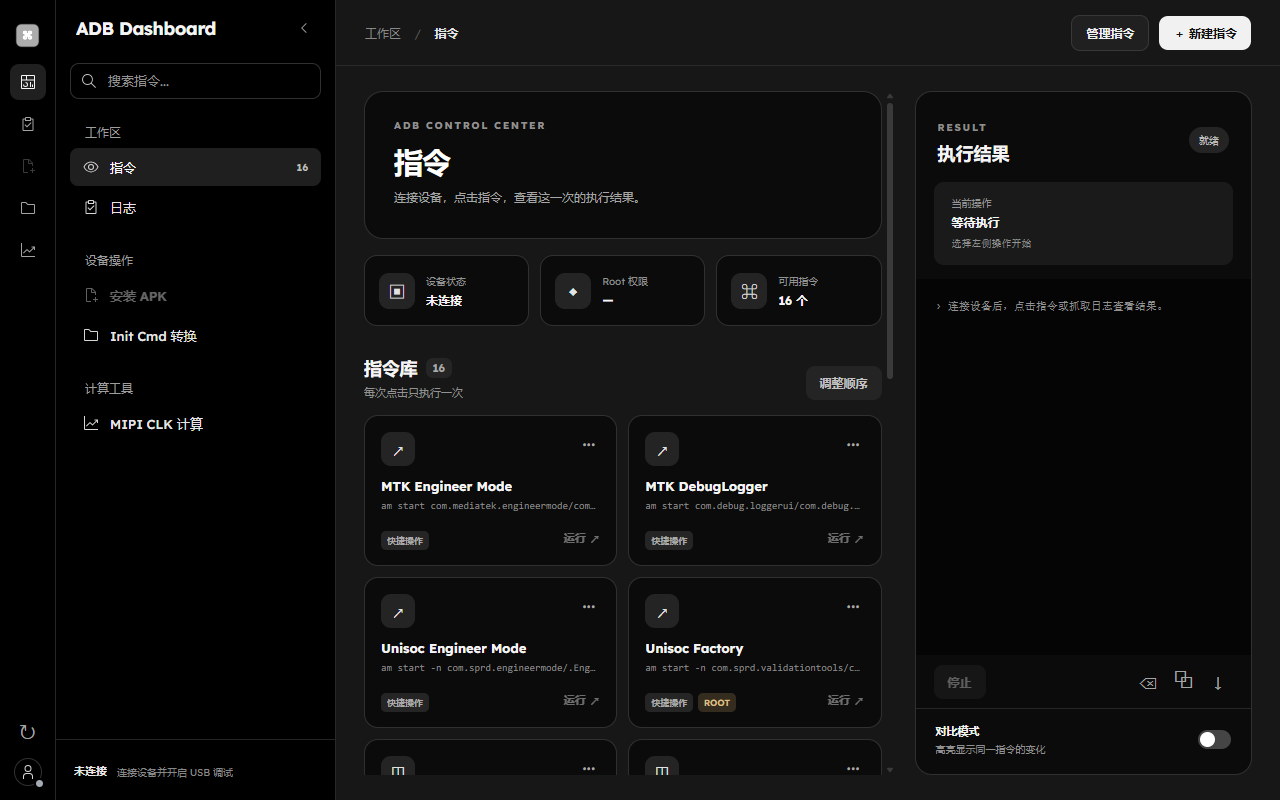
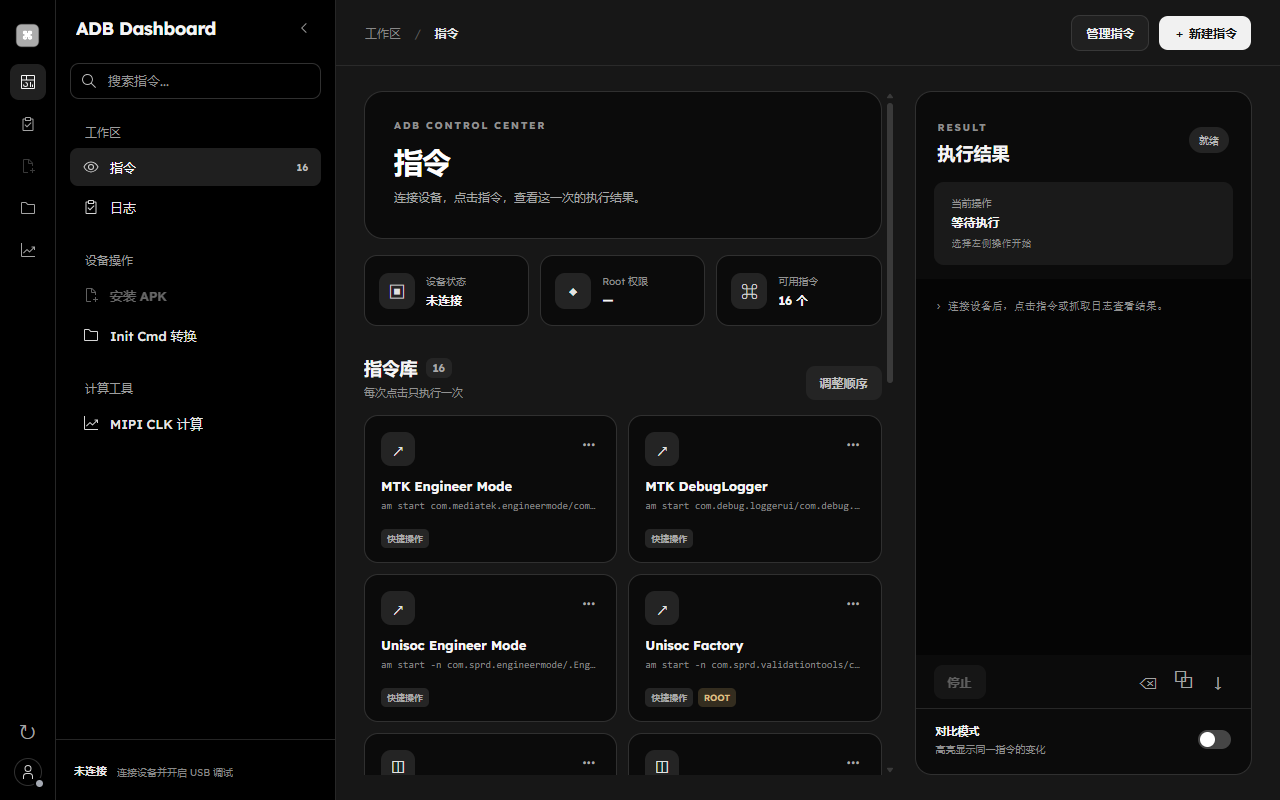
Run commands from cards and root connected devices

diff --git a/electron/renderer/styles.css b/electron/renderer/styles.css
@@ -1,4 +1,4 @@
-:root{font-family:Inter,-apple-system,BlinkMacSystemFont,"Segoe UI","PingFang SC","Microsoft YaHei",sans-serif;color:#1d1d1f;background:#f5f5f7;font-synthesis:none}*{box-sizing:border-box}body{margin:0;min-width:940px}button,input,textarea,select{font:inherit}button{cursor:pointer}button:disabled{cursor:not-allowed;opacity:.45}.app-shell{display:flex;height:100vh;min-height:640px}.sidebar{width:230px;flex:none;background:linear-gradient(160deg,#f8f9fc,#eef1f6);border-right:1px solid #e4e7ed;display:flex;flex-direction:column;padding:26px 14px 18px}.brand{display:flex;gap:11px;align-items:center;padding:2px 10px 38px}.brand-mark{width:36px;height:36px;display:grid;place-items:center;border-radius:11px;background:#1677f9;color:#fff;font-size:23px;box-shadow:0 7px 16px #2a78ec30}.brand strong{display:block;font-size:14px;letter-spacing:-.25px}.brand small{display:block;color:#8a93a2;font-size:11px;margin-top:3px}.sidebar-label{padding:0 14px;margin:0 0 9px;font-size:10px;font-weight:700;letter-spacing:1.6px;color:#a1a9b7}.tools-label{margin-top:30px}.nav-item{width:100%;height:40px;border:0;background:transparent;border-radius:10px;text-align:left;padding:0 12px;color:#626c7b;font-size:13px;font-weight:600;display:flex;align-items:center;gap:11px;margin-bottom:3px}.nav-item:hover{background:#e8edf5}.nav-item.active{background:#dbeaff;color:#0870ee}.nav-icon{width:18px;text-align:center;font-size:18px;line-height:1;font-weight:400}.nav-count{margin-left:auto;font-size:11px;font-weight:700;color:#8c97a6}.active .nav-count{color:#3386e7}.sidebar-bottom{margin-top:auto;padding:13px 10px 0;border-top:1px solid #dfe4ec;display:flex;align-items:center;gap:5px}.device-mini{display:flex;gap:10px;align-items:center;min-width:0;flex:1}.device-mini strong,.device-mini small{display:block;overflow:hidden;text-overflow:ellipsis;white-space:nowrap}.device-mini strong{font-size:12px}.device-mini small{font-size:10px;color:#8b95a3;margin-top:3px}.status-dot{width:9px;height:9px;border-radius:50%;background:#a5aab3;box-shadow:0 0 0 4px #a5aab323;flex:none}.status-dot.connected{background:#34bf78;box-shadow:0 0 0 4px #34bf7824}.status-dot.error{background:#ee776d;box-shadow:0 0 0 4px #ee776d24}.main{flex:1;min-width:0;display:flex;flex-direction:column}.topbar{height:66px;flex:none;background:#ffffffd9;border-bottom:1px solid #e9ebef;display:flex;align-items:center;justify-content:space-between;padding:0 29px}.breadcrumbs{font-size:12px;color:#9aa2ad}.breadcrumbs span{padding:0 10px;color:#cbd0d6}.breadcrumbs strong{color:#56606d;font-weight:600}.top-actions{display:flex;align-items:center;gap:10px}.button{border:0;border-radius:9px;padding:9px 14px;font-size:12px;font-weight:650;white-space:nowrap;transition:.18s ease}.button:active{transform:scale(.97)}.button.primary{background:#1677f9;color:white;box-shadow:0 4px 12px #1677f92d}.button.primary:hover{background:#0067e7}.button.secondary{background:white;color:#3a4654;border:1px solid #dfe3e9}.button.secondary:hover{background:#f8faff}.button.subtle{background:#f0f3f7;color:#627080}.button.subtle:hover{background:#e5ebf3}.button.danger{background:#fff0ee;color:#d65047}.button.active{background:#dceaff;color:#0c6fe4}.icon-button{width:30px;height:30px;border:0;border-radius:8px;background:transparent;color:#7c8897;font-size:19px;display:inline-grid;place-items:center}.icon-button:hover{background:#edf1f6;color:#2678e8}.workspace{display:grid;grid-template-columns:minmax(450px,1fr) minmax(330px,38%);gap:20px;padding:25px 28px;min-height:0;flex:1}.command-section{min-width:0;overflow-y:auto;padding-right:3px}.hero{height:168px;border-radius:19px;position:relative;overflow:hidden;background:linear-gradient(115deg,#1c72f1 0%,#468ef6 56%,#78b2ff 100%);color:white;padding:31px 32px;box-shadow:0 13px 28px #4288f626}.eyebrow{font-size:10px;font-weight:750;letter-spacing:1.7px;color:#8fa0b4}.hero .eyebrow{color:#cce1ff}.hero h1{font-size:29px;letter-spacing:-.9px;margin:12px 0 8px}.hero p{font-size:12px;margin:0;color:#d7e8ff}.hero-graphic{position:absolute;width:240px;height:240px;right:-10px;top:-37px;display:grid;place-items:center}.hero-ring{position:absolute;border:1px solid #ffffff30;border-radius:50%}.ring-a{width:182px;height:182px}.ring-b{width:116px;height:116px;border-width:20px;border-color:#ffffff14}.hero-core{display:grid;place-items:center;width:76px;height:76px;border-radius:23px;transform:rotate(-12deg);background:#ffffff2f;color:white;font-size:45px;box-shadow:0 18px 36px #0c5aca44;backdrop-filter:blur(7px)}.overview{display:grid;grid-template-columns:repeat(3,1fr);gap:11px;margin:16px 0 30px}.overview-item{display:flex;align-items:center;gap:11px;background:white;border:1px solid #edf0f3;border-radius:13px;min-height:71px;padding:13px 14px;box-shadow:0 3px 10px #34446a08;min-width:0}.overview-icon{width:36px;height:36px;flex:none;border-radius:10px;display:grid;place-items:center;font-size:17px}.overview-icon.blue{background:#e7f1ff;color:#3989f8}.overview-icon.green{background:#e9f8ef;color:#39b975}.overview-icon.purple{background:#f0ebff;color:#916be9}.overview-item small,.overview-item strong{display:block;white-space:nowrap;overflow:hidden;text-overflow:ellipsis}.overview-item small{color:#9aa5b2;font-size:10px}.overview-item strong{font-size:12px;margin-top:4px}.section-heading{display:flex;align-items:flex-end;justify-content:space-between;gap:10px;margin-bottom:15px}.section-heading h2{font-size:18px;letter-spacing:-.3px;margin:0 0 5px}.heading-count{font-size:11px;background:#e9edf4;color:#8793a3;padding:3px 7px;border-radius:7px;vertical-align:3px;margin-left:3px}.section-heading p{font-size:11px;color:#9ba5b2;margin:0}.section-tools{display:flex;gap:8px;align-items:center}.search-box{height:33px;display:flex;align-items:center;gap:6px;border:1px solid #e2e6ec;background:white;border-radius:9px;padding:0 9px;color:#9da6b0}.search-box span{font-size:20px;line-height:1}.search-box input{border:0;outline:0;width:132px;font-size:11px;color:#313d4b;background:transparent}.search-box input::placeholder{color:#aeb7c1}.command-grid{display:grid;grid-template-columns:repeat(2,minmax(0,1fr));gap:11px;padding-bottom:24px}.command-card{background:#fff;border:1px solid #e9edf2;border-radius:14px;min-height:139px;padding:16px;box-shadow:0 4px 14px #33445f08;transition:.18s ease;display:flex;flex-direction:column;min-width:0}.command-card:hover{transform:translateY(-2px);box-shadow:0 10px 23px #34446417;border-color:#dbe7f9}.command-card.running{border-color:#88baff;box-shadow:0 0 0 3px #3a8cff15}.command-card.dragging{opacity:.45}.card-top{display:flex;align-items:flex-start;justify-content:space-between;gap:8px}.card-icon{width:34px;height:34px;border-radius:10px;display:grid;place-items:center;font-size:17px}.card-icon.read{background:#eaf2ff;color:#3886f4}.card-icon.action{background:#eeeaff;color:#8c69e7}.card-menu{border:0;background:transparent;color:#a4adba;font-size:19px;line-height:1;padding:3px 5px;border-radius:6px}.card-menu:hover{background:#eef2f8;color:#4d82d2}.card-main{flex:1;min-width:0}.card-main h3{font-size:13px;letter-spacing:-.1px;margin:12px 0 5px;white-space:nowrap;overflow:hidden;text-overflow:ellipsis}.card-main code{display:block;color:#a1aab7;font:10px/1.4 Consolas,"SFMono-Regular",monospace;white-space:nowrap;overflow:hidden;text-overflow:ellipsis}.card-footer{display:flex;align-items:center;justify-content:space-between;margin-top:13px;gap:6px}.tag{font-size:9px;font-weight:650;border-radius:5px;padding:4px 6px;background:#f2f4f7;color:#8c96a3;white-space:nowrap}.tag.root{color:#cb8d2a;background:#fff5e3}.run-button{border:0;background:transparent;color:#2579ed;font-size:11px;font-weight:700;padding:4px 0}.run-button:hover{text-decoration:underline}.empty-state{text-align:center;padding:60px 20px;color:#a3adba}.empty-state div{font-size:42px}.empty-state strong{color:#586474;font-size:14px}.empty-state p{font-size:12px}.output-section{background:white;border:1px solid #e9edf2;border-radius:17px;box-shadow:0 5px 20px #3042600c;display:flex;flex-direction:column;min-height:0;overflow:hidden}.output-header{display:flex;align-items:center;justify-content:space-between;padding:23px 22px 17px}.output-header h2{font-size:18px;margin:6px 0 0}.output-pill{font-size:10px;color:#5b8dcb;background:#eaf3ff;padding:6px 10px;border-radius:15px}.output-pill.running{color:#dc8652;background:#fff1e7}.output-pill.error{color:#df6359;background:#fff0ef}.output-command{padding:14px 18px;margin:0 18px 14px;background:#f5f7fa;border-radius:10px;min-width:0}.output-command small{font-size:10px;color:#9ca6b3;display:block}.output-command strong{font-size:12px;display:block;margin:4px 0 7px}.output-command code{font:10px/1.4 Consolas,"SFMono-Regular",monospace;color:#818c9a;display:block;white-space:nowrap;overflow:hidden;text-overflow:ellipsis}.output-text{flex:1;min-height:100px;overflow:auto;margin:0;padding:19px 20px;background:#121b2b;color:#d2e0ef;font:11px/1.65 Consolas,"SFMono-Regular",monospace;white-space:pre-wrap;word-break:break-word}.placeholder-output{color:#718096}.output-text .added{color:#92dda8;background:#23473580}.output-text .removed{color:#f8a5aa;background:#5a313980}.compare-note{padding:8px 18px;font-size:10px;color:#8378bb;background:#f3f0ff}.output-footer{height:54px;flex:none;display:flex;align-items:center;justify-content:space-between;padding:0 18px;border-bottom:1px solid #f0f1f4}.output-footer>div{display:flex;gap:5px}.compare-control{padding:14px 20px 18px}.switch-row{display:flex;align-items:center;justify-content:space-between;cursor:pointer}.switch-row strong,.switch-row small{display:block}.switch-row strong{font-size:11px}.switch-row small{color:#a0a9b5;font-size:10px;margin-top:4px}.switch-row input{position:absolute;opacity:0}.switch{position:relative;width:33px;height:19px;background:#d8dfe7;border-radius:20px;transition:.2s}.switch:before{content:"";position:absolute;width:15px;height:15px;left:2px;top:2px;background:white;border-radius:50%;box-shadow:0 1px 3px #0002;transition:.2s}.switch-row input:checked+.switch{background:#2881ed}.switch-row input:checked+.switch:before{transform:translateX(14px)}.modal{border:1px solid #e5e9ef;border-radius:16px;padding:0;width:min(500px,calc(100vw - 40px));box-shadow:0 25px 80px #16264338;color:#1d1d1f;background:#fff}.modal::backdrop{background:#16243b60;backdrop-filter:blur(4px)}.modal-header{padding:25px 26px 18px;display:flex;align-items:flex-start;justify-content:space-between;border-bottom:1px solid #edf0f3}.modal-header h2{margin:6px 0 0;font-size:20px}.close-button{border:0;background:#f1f3f6;color:#8c95a1;border-radius:8px;width:26px;height:26px;font-size:18px}.modal-body{padding:20px 26px;display:grid;gap:15px}.modal-body label{display:grid;gap:7px;font-size:11px;font-weight:700;color:#5e6a78}.modal-body input:not([type=checkbox]),.modal-body textarea,.modal-body select{border:1px solid #dfe4eb;border-radius:8px;padding:10px 11px;outline:none;color:#273444;background:#fbfcfe;font-size:12px;resize:vertical}.modal-body input:focus,.modal-body textarea:focus,.modal-body select:focus{border-color:#6da7f2;box-shadow:0 0 0 3px #4e9aff1c}.form-row{display:grid;grid-template-columns:1fr 1fr;gap:13px;align-items:end}.modal-body .check-label{display:flex;align-items:center;gap:7px;min-height:36px}.check-label input{accent-color:#1677f9}.form-error{font-size:11px;color:#da4c43;margin:0}.modal-footer{display:flex;gap:8px;align-items:center;padding:14px 26px 24px}.spacer{flex:1}.toast{position:fixed;bottom:28px;left:50%;transform:translate(-50%,12px);background:#1c2d43;color:white;padding:11px 16px;border-radius:10px;font-size:12px;box-shadow:0 9px 25px #0003;opacity:0;pointer-events:none;transition:.2s}.toast.show{opacity:1;transform:translate(-50%,0)}@media(max-width:1150px){.sidebar{width:205px}.workspace{grid-template-columns:minmax(380px,1fr) minmax(310px,39%);gap:14px;padding:18px}.hero-graphic{right:-75px}.overview-item{padding:11px 8px;gap:6px}.overview-icon{width:28px;height:28px}.section-heading{align-items:flex-start}.section-tools{gap:4px}.search-box input{width:86px}.command-grid{gap:8px}.command-card{padding:12px}.topbar{padding:0 18px}}
+:root{font-family:Inter,-apple-system,BlinkMacSystemFont,"Segoe UI","PingFang SC","Microsoft YaHei",sans-serif;color:#1d1d1f;background:#f5f5f7;font-synthesis:none}*{box-sizing:border-box}body{margin:0;min-width:940px}button,input,textarea,select{font:inherit}button{cursor:pointer}button:disabled{cursor:not-allowed;opacity:.45}.app-shell{display:flex;height:100vh;min-height:640px}.sidebar{width:230px;flex:none;background:linear-gradient(160deg,#f8f9fc,#eef1f6);border-right:1px solid #e4e7ed;display:flex;flex-direction:column;padding:26px 14px 18px}.brand{display:flex;gap:11px;align-items:center;padding:2px 10px 38px}.brand-mark{width:36px;height:36px;display:grid;place-items:center;border-radius:11px;background:#1677f9;color:#fff;font-size:23px;box-shadow:0 7px 16px #2a78ec30}.brand strong{display:block;font-size:14px;letter-spacing:-.25px}.brand small{display:block;color:#8a93a2;font-size:11px;margin-top:3px}.sidebar-label{padding:0 14px;margin:0 0 9px;font-size:10px;font-weight:700;letter-spacing:1.6px;color:#a1a9b7}.tools-label{margin-top:30px}.nav-item{width:100%;height:40px;border:0;background:transparent;border-radius:10px;text-align:left;padding:0 12px;color:#626c7b;font-size:13px;font-weight:600;display:flex;align-items:center;gap:11px;margin-bottom:3px}.nav-item:hover{background:#e8edf5}.nav-item.active{background:#dbeaff;color:#0870ee}.nav-icon{width:18px;text-align:center;font-size:18px;line-height:1;font-weight:400}.nav-count{margin-left:auto;font-size:11px;font-weight:700;color:#8c97a6}.active .nav-count{color:#3386e7}.sidebar-bottom{margin-top:auto;padding:13px 10px 0;border-top:1px solid #dfe4ec;display:flex;align-items:center;gap:5px}.device-mini{display:flex;gap:10px;align-items:center;min-width:0;flex:1}.device-mini strong,.device-mini small{display:block;overflow:hidden;text-overflow:ellipsis;white-space:nowrap}.device-mini strong{font-size:12px}.device-mini small{font-size:10px;color:#8b95a3;margin-top:3px}.status-dot{width:9px;height:9px;border-radius:50%;background:#a5aab3;box-shadow:0 0 0 4px #a5aab323;flex:none}.status-dot.connected{background:#34bf78;box-shadow:0 0 0 4px #34bf7824}.status-dot.error{background:#ee776d;box-shadow:0 0 0 4px #ee776d24}.main{flex:1;min-width:0;display:flex;flex-direction:column}.topbar{height:66px;flex:none;background:#ffffffd9;border-bottom:1px solid #e9ebef;display:flex;align-items:center;justify-content:space-between;padding:0 29px}.breadcrumbs{font-size:12px;color:#9aa2ad}.breadcrumbs span{padding:0 10px;color:#cbd0d6}.breadcrumbs strong{color:#56606d;font-weight:600}.top-actions{display:flex;align-items:center;gap:10px}.button{border:0;border-radius:9px;padding:9px 14px;font-size:12px;font-weight:650;white-space:nowrap;transition:.18s ease}.button:active{transform:scale(.97)}.button.primary{background:#1677f9;color:white;box-shadow:0 4px 12px #1677f92d}.button.primary:hover{background:#0067e7}.button.secondary{background:white;color:#3a4654;border:1px solid #dfe3e9}.button.secondary:hover{background:#f8faff}.button.subtle{background:#f0f3f7;color:#627080}.button.subtle:hover{background:#e5ebf3}.button.danger{background:#fff0ee;color:#d65047}.button.active{background:#dceaff;color:#0c6fe4}.icon-button{width:30px;height:30px;border:0;border-radius:8px;background:transparent;color:#7c8897;font-size:19px;display:inline-grid;place-items:center}.icon-button:hover{background:#edf1f6;color:#2678e8}.workspace{display:grid;grid-template-columns:minmax(450px,1fr) minmax(330px,38%);gap:20px;padding:25px 28px;min-height:0;flex:1}.command-section{min-width:0;overflow-y:auto;padding-right:3px}.hero{height:168px;border-radius:19px;position:relative;overflow:hidden;background:linear-gradient(115deg,#1c72f1 0%,#468ef6 56%,#78b2ff 100%);color:white;padding:31px 32px;box-shadow:0 13px 28px #4288f626}.eyebrow{font-size:10px;font-weight:750;letter-spacing:1.7px;color:#8fa0b4}.hero .eyebrow{color:#cce1ff}.hero h1{font-size:29px;letter-spacing:-.9px;margin:12px 0 8px}.hero p{font-size:12px;margin:0;color:#d7e8ff}.hero-graphic{position:absolute;width:240px;height:240px;right:-10px;top:-37px;display:grid;place-items:center}.hero-ring{position:absolute;border:1px solid #ffffff30;border-radius:50%}.ring-a{width:182px;height:182px}.ring-b{width:116px;height:116px;border-width:20px;border-color:#ffffff14}.hero-core{display:grid;place-items:center;width:76px;height:76px;border-radius:23px;transform:rotate(-12deg);background:#ffffff2f;color:white;font-size:45px;box-shadow:0 18px 36px #0c5aca44;backdrop-filter:blur(7px)}.overview{display:grid;grid-template-columns:repeat(3,1fr);gap:11px;margin:16px 0 30px}.overview-item{display:flex;align-items:center;gap:11px;background:white;border:1px solid #edf0f3;border-radius:13px;min-height:71px;padding:13px 14px;box-shadow:0 3px 10px #34446a08;min-width:0}.overview-icon{width:36px;height:36px;flex:none;border-radius:10px;display:grid;place-items:center;font-size:17px}.overview-icon.blue{background:#e7f1ff;color:#3989f8}.overview-icon.green{background:#e9f8ef;color:#39b975}.overview-icon.purple{background:#f0ebff;color:#916be9}.overview-item small,.overview-item strong{display:block;white-space:nowrap;overflow:hidden;text-overflow:ellipsis}.overview-item small{color:#9aa5b2;font-size:10px}.overview-item strong{font-size:12px;margin-top:4px}.section-heading{display:flex;align-items:flex-end;justify-content:space-between;gap:10px;margin-bottom:15px}.section-heading h2{font-size:18px;letter-spacing:-.3px;margin:0 0 5px}.heading-count{font-size:11px;background:#e9edf4;color:#8793a3;padding:3px 7px;border-radius:7px;vertical-align:3px;margin-left:3px}.section-heading p{font-size:11px;color:#9ba5b2;margin:0}.section-tools{display:flex;gap:8px;align-items:center}.search-box{height:33px;display:flex;align-items:center;gap:6px;border:1px solid #e2e6ec;background:white;border-radius:9px;padding:0 9px;color:#9da6b0}.search-box span{font-size:20px;line-height:1}.search-box input{border:0;outline:0;width:132px;font-size:11px;color:#313d4b;background:transparent}.search-box input::placeholder{color:#aeb7c1}.command-grid{display:grid;grid-template-columns:repeat(2,minmax(0,1fr));gap:11px;padding-bottom:24px}.command-card{background:#fff;border:1px solid #e9edf2;border-radius:14px;min-height:139px;padding:16px;box-shadow:0 4px 14px #33445f08;transition:.18s ease;display:flex;flex-direction:column;min-width:0}.command-card:hover{transform:translateY(-2px);box-shadow:0 10px 23px #34446417;border-color:#dbe7f9}.command-card.running{border-color:#88baff;box-shadow:0 0 0 3px #3a8cff15}.command-card.dragging{opacity:.45}.card-top{display:flex;align-items:flex-start;justify-content:space-between;gap:8px}.card-icon{width:34px;height:34px;border-radius:10px;display:grid;place-items:center;font-size:17px}.card-icon.read{background:#eaf2ff;color:#3886f4}.card-icon.action{background:#eeeaff;color:#8c69e7}.card-menu{border:0;background:transparent;color:#a4adba;font-size:19px;line-height:1;padding:3px 5px;border-radius:6px}.card-menu:hover{background:#eef2f8;color:#4d82d2}.card-main{flex:1;min-width:0}.card-main h3{font-size:13px;letter-spacing:-.1px;margin:12px 0 5px;white-space:nowrap;overflow:hidden;text-overflow:ellipsis}.card-main code{display:block;color:#a1aab7;font:10px/1.4 Consolas,"SFMono-Regular",monospace;white-space:nowrap;overflow:hidden;text-overflow:ellipsis}.card-footer{display:flex;align-items:center;justify-content:space-between;margin-top:13px;gap:6px}.tag{font-size:9px;font-weight:650;border-radius:5px;padding:4px 6px;background:#f2f4f7;color:#8c96a3;white-space:nowrap}.tag.root{color:#cb8d2a;background:#fff5e3}.empty-state{text-align:center;padding:60px 20px;color:#a3adba}.empty-state div{font-size:42px}.empty-state strong{color:#586474;font-size:14px}.empty-state p{font-size:12px}.output-section{background:white;border:1px solid #e9edf2;border-radius:17px;box-shadow:0 5px 20px #3042600c;display:flex;flex-direction:column;min-height:0;overflow:hidden}.output-header{display:flex;align-items:center;justify-content:space-between;padding:23px 22px 17px}.output-header h2{font-size:18px;margin:6px 0 0}.output-pill{font-size:10px;color:#5b8dcb;background:#eaf3ff;padding:6px 10px;border-radius:15px}.output-pill.running{color:#dc8652;background:#fff1e7}.output-pill.error{color:#df6359;background:#fff0ef}.output-command{padding:14px 18px;margin:0 18px 14px;background:#f5f7fa;border-radius:10px;min-width:0}.output-command small{font-size:10px;color:#9ca6b3;display:block}.output-command strong{font-size:12px;display:block;margin:4px 0 7px}.output-command code{font:10px/1.4 Consolas,"SFMono-Regular",monospace;color:#818c9a;display:block;white-space:nowrap;overflow:hidden;text-overflow:ellipsis}.output-text{flex:1;min-height:100px;overflow:auto;margin:0;padding:19px 20px;background:#121b2b;color:#d2e0ef;font:11px/1.65 Consolas,"SFMono-Regular",monospace;white-space:pre-wrap;word-break:break-word}.placeholder-output{color:#718096}.output-text .added{color:#92dda8;background:#23473580}.output-text .removed{color:#f8a5aa;background:#5a313980}.compare-note{padding:8px 18px;font-size:10px;color:#8378bb;background:#f3f0ff}.output-footer{height:54px;flex:none;display:flex;align-items:center;justify-content:space-between;padding:0 18px;border-bottom:1px solid #f0f1f4}.output-footer>div{display:flex;gap:5px}.compare-control{padding:14px 20px 18px}.switch-row{display:flex;align-items:center;justify-content:space-between;cursor:pointer}.switch-row strong,.switch-row small{display:block}.switch-row strong{font-size:11px}.switch-row small{color:#a0a9b5;font-size:10px;margin-top:4px}.switch-row input{position:absolute;opacity:0}.switch{position:relative;width:33px;height:19px;background:#d8dfe7;border-radius:20px;transition:.2s}.switch:before{content:"";position:absolute;width:15px;height:15px;left:2px;top:2px;background:white;border-radius:50%;box-shadow:0 1px 3px #0002;transition:.2s}.switch-row input:checked+.switch{background:#2881ed}.switch-row input:checked+.switch:before{transform:translateX(14px)}.modal{border:1px solid #e5e9ef;border-radius:16px;padding:0;width:min(500px,calc(100vw - 40px));box-shadow:0 25px 80px #16264338;color:#1d1d1f;background:#fff}.modal::backdrop{background:#16243b60;backdrop-filter:blur(4px)}.modal-header{padding:25px 26px 18px;display:flex;align-items:flex-start;justify-content:space-between;border-bottom:1px solid #edf0f3}.modal-header h2{margin:6px 0 0;font-size:20px}.close-button{border:0;background:#f1f3f6;color:#8c95a1;border-radius:8px;width:26px;height:26px;font-size:18px}.modal-body{padding:20px 26px;display:grid;gap:15px}.modal-body label{display:grid;gap:7px;font-size:11px;font-weight:700;color:#5e6a78}.modal-body input:not([type=checkbox]),.modal-body textarea,.modal-body select{border:1px solid #dfe4eb;border-radius:8px;padding:10px 11px;outline:none;color:#273444;background:#fbfcfe;font-size:12px;resize:vertical}.modal-body input:focus,.modal-body textarea:focus,.modal-body select:focus{border-color:#6da7f2;box-shadow:0 0 0 3px #4e9aff1c}.form-row{display:grid;grid-template-columns:1fr 1fr;gap:13px;align-items:end}.modal-body .check-label{display:flex;align-items:center;gap:7px;min-height:36px}.check-label input{accent-color:#1677f9}.form-error{font-size:11px;color:#da4c43;margin:0}.modal-footer{display:flex;gap:8px;align-items:center;padding:14px 26px 24px}.spacer{flex:1}.toast{position:fixed;bottom:28px;left:50%;transform:translate(-50%,12px);background:#1c2d43;color:white;padding:11px 16px;border-radius:10px;font-size:12px;box-shadow:0 9px 25px #0003;opacity:0;pointer-events:none;transition:.2s}.toast.show{opacity:1;transform:translate(-50%,0)}@media(max-width:1150px){.sidebar{width:205px}.workspace{grid-template-columns:minmax(380px,1fr) minmax(310px,39%);gap:14px;padding:18px}.hero-graphic{right:-75px}.overview-item{padding:11px 8px;gap:6px}.overview-icon{width:28px;height:28px}.section-heading{align-items:flex-start}.section-tools{gap:4px}.search-box input{width:86px}.command-grid{gap:8px}.command-card{padding:12px}.topbar{padding:0 18px}}
 /* One-shot log capture workspace */
 [hidden]{display:none!important}
 .log-hero{background:linear-gradient(115deg,#566bdf,#8293eb);height:132px;padding:23px 30px}

diff --git a/electron/renderer/app.js b/electron/renderer/app.js
@@ -55,10 +55,10 @@ function renderCards() {
     card.draggable = reorder;
     card.dataset.id = item.id;
     const icon = { read: '◫', action: '↗' }[item.category];
-    card.innerHTML = `<div class="card-top"><span class="card-icon ${item.category}">${icon}</span><button class="card-menu" title="编辑指令" aria-label="编辑指令">···</button></div><div class="card-main"><h3></h3><code></code></div><div class="card-footer"><div class="card-tags"></div><div class="card-actions"></div></div>`;
+    card.innerHTML = `<div class="card-top"><span class="card-icon ${item.category}">${icon}</span><button class="card-menu" title="编辑指令" aria-label="编辑指令">···</button></div><div class="card-main"><h3></h3><code></code></div><div class="card-footer"><div class="card-tags"></div></div>`;
     card.querySelector('h3').textContent = item.label;
     card.querySelector('code').textContent = item.shell_command;
-    card.querySelector('.card-menu').addEventListener('click', () => openCommandDialog(item));
+    card.querySelector('.card-menu').addEventListener('click', (event) => { event.stopPropagation(); openCommandDialog(item); });
     const tags = card.querySelector('.card-tags');
     const type = document.createElement('span');
     type.className = 'tag';
@@ -70,13 +70,18 @@ function renderCards() {
       root.textContent = 'ROOT';
       tags.append(' ', root);
     }
-    const actions = card.querySelector('.card-actions');
-    const run = document.createElement('button');
-    run.className = 'run-button';
-    run.textContent = activeId === item.id && running ? '运行中…' : '运行 ↗';
-    run.disabled = device.state !== 'connected' || reorder;
-    run.addEventListener('click', () => runCommand(item));
-    actions.append(run);
+    const clickable = device.state === 'connected' && !reorder;
+    card.classList.toggle('clickable', clickable);
+    card.tabIndex = clickable ? 0 : -1;
+    card.setAttribute('role', 'button');
+    card.setAttribute('aria-label', `执行指令：${item.label}`);
+    card.setAttribute('aria-disabled', String(!clickable));
+    card.addEventListener('click', () => { if (clickable) runCommand(item); });
+    card.addEventListener('keydown', (event) => {
+      if (event.target !== card || !clickable || !['Enter', ' '].includes(event.key)) return;
+      event.preventDefault();
+      runCommand(item);
+    });
     card.addEventListener('dragstart', (event) => { if (!reorder) return; event.dataTransfer.setData('text/plain', item.id); card.classList.add('dragging'); });
     card.addEventListener('dragend', () => card.classList.remove('dragging'));
     card.addEventListener('dragover', (event) => { if (reorder) event.preventDefault(); });

diff --git a/electron/tests/visual-smoke.js b/electron/tests/visual-smoke.js
@@ -11,6 +11,33 @@ app.on('browser-window-created', (_event, win) => {
       win.setContentSize(1280, 800);
       const info = await win.webContents.executeJavaScript(`({title: document.title, cards: document.querySelectorAll('.command-card').length, status: document.getElementById('device-title').textContent, errors: document.getElementById('toast').textContent})`);
       if (info.cards < 10) throw new Error(`Only ${info.cards} commands rendered`);
+      const cardAction = await win.webContents.executeJavaScript(`(() => {
+        const previousDevice = device;
+        const originalRun = runCommand;
+        let runs = 0;
+        try {
+          runCommand = () => { runs++; };
+          device = { state: 'disconnected' };
+          renderDevice();
+          document.querySelector('.command-card').click();
+          const disconnectedRuns = runs;
+          device = { state: 'connected', serial: 'SMOKE', root: false };
+          renderDevice();
+          const card = document.querySelector('.command-card');
+          card.click();
+          card.dispatchEvent(new KeyboardEvent('keydown', { key: 'Enter', bubbles: true }));
+          card.dispatchEvent(new KeyboardEvent('keydown', { key: ' ', bubbles: true }));
+          card.querySelector('.card-menu').click();
+          const menuOpened = document.getElementById('command-dialog').open;
+          document.getElementById('command-dialog').close();
+          return { disconnectedRuns, runs, menuOpened, runButtons: document.querySelectorAll('.run-button').length };
+        } finally {
+          runCommand = originalRun;
+          device = previousDevice;
+          renderDevice();
+        }
+      })()`);
+      if (cardAction.disconnectedRuns !== 0 || cardAction.runs !== 3 || !cardAction.menuOpened || cardAction.runButtons !== 0) throw new Error(`Card click failed: ${JSON.stringify(cardAction)}`);
       const identity = await win.webContents.executeJavaScript(`(() => {
         const ids = ['overview-device', 'device-subtitle'];
         const before = ids.map(id => document.getElementById(id).textContent);

diff --git a/electron/main.js b/electron/main.js
@@ -2,13 +2,15 @@ const { app, BrowserWindow, dialog, ipcMain } = require('electron');
 const fs = require('node:fs');
 const path = require('node:path');
 const { CommandStore } = require('./config');
-const { AdbRunner, checkDevice } = require('./adb');
+const { AdbRunner, checkDevice, rootDevice } = require('./adb');
 
 let window;
 let store;
 let runner;
 let device = { state: 'disconnected' };
 let checking = null;
+let rootedSerial = null;
+let missedDeviceChecks = 0;
 const LOG_COMMANDS = {
   kernel: { id: '__kernel_log__', label: '内核日志', shell_command: 'dmesg' },
   logcat: { id: '__logcat_log__', label: 'Logcat 日志', shell_command: 'logcat -d' }
@@ -77,11 +79,24 @@ function createWindow() {
 
 async function refreshDevice() {
   if (checking) return checking;
-  checking = checkDevice().then((result) => {
+  checking = checkDevice().then(async (detected) => {
+    let result = detected;
+    if (result.state === 'connected' && rootedSerial !== result.serial) {
+      rootedSerial = result.serial;
+      try { await rootDevice(result.serial); } catch { /* Keep checking if adb root is unavailable. */ }
+      result = await checkDevice();
+    }
     const wasConnected = device.state === 'connected';
     device = result;
     if (window && !window.isDestroyed()) window.webContents.send('device:changed', result);
     if (wasConnected && result.state !== 'connected') runner.stop();
+    if (result.state === 'connected') {
+      missedDeviceChecks = 0;
+    } else if (result.state === 'disconnected' && ++missedDeviceChecks >= 3) {
+      rootedSerial = null;
+    } else if (result.state !== 'disconnected') {
+      missedDeviceChecks = 0;
+    }
     return result;
   }).finally(() => { checking = null; });
   return checking;

diff --git a/electron/tests/core.test.js b/electron/tests/core.test.js
@@ -5,7 +5,7 @@ const os = require('node:os');
 const path = require('node:path');
 const { EventEmitter } = require('node:events');
 const { CommandStore, normalizeCommand } = require('../config');
-const { AdbRunner, parseDevices, shellArgs } = require('../adb');
+const { AdbRunner, rootDevice, parseDevices, shellArgs } = require('../adb');
 const { calculateMipiClock } = require('../renderer/mipi-clock');
 
 test('imports valid commands from the existing YAML and persists edits', () => {
@@ -51,6 +51,12 @@ test('parses ADB states and keeps shell commands out of the host shell', () => {
   const command = normalizeCommand({ id: 'one', label: 'One', shell_command: 'echo a && echo b', category: 'read' });
   assert.deepEqual(shellArgs('ABC', command), ['-s', 'ABC', 'shell', 'echo a && echo b']);
   assert.match(shellArgs('ABC', { ...command, requires_root: true })[3], /^su 0 sh -c /);
+});
+
+test('targets the selected device with adb root', async () => {
+  let received;
+  await rootDevice('ABC', async (args, timeout) => { received = { args, timeout }; });
+  assert.deepEqual(received, { args: ['-s', 'ABC', 'root'], timeout: 10000 });
 });
 
 test('retries a deprecated SDK install once with the bypass flag and keeps -g', async () => {

diff --git a/electron/renderer/dark.css b/electron/renderer/dark.css
@@ -67,7 +67,8 @@ body{background:#1a1a1a}button,input,textarea,select{font-family:inherit}
 .card-main code,.manager-item small{color:#898989}
 .card-menu{color:#aaa}.card-menu:hover{background:#282828;color:#fff}
 .tag.root{background:#342d1f;color:#d9be85}
-.run-button{color:#e7e7e7}
+.command-card.clickable{cursor:pointer}
+.command-card.clickable:focus-visible{outline:2px solid #bcbcbc;outline-offset:2px}
 .empty-state,.empty-state strong{color:#aaa}
 .output-header h2,.output-command strong{color:#f5f5f5}
 .output-pill{background:#242424;color:#bcbcbc}.output-pill.running{background:#302a22;color:#e2bd8b}.output-pill.error{background:#3b2424;color:#f1a3a3}

diff --git a/electron/adb.js b/electron/adb.js
@@ -51,6 +51,8 @@ async function checkDevice() {
   return { state: 'connected', serial, root, message: serial };
 }
 
+function rootDevice(serial, execute = collect) { return execute(['-s', serial, 'root'], 10000); }
+
 function shellArgs(serial, command) {
   if (!command.requires_root) return ['-s', serial, 'shell', command.shell_command];
   const quoted = command.shell_command.replace(/'/g, `'\\''`);
@@ -150,4 +152,4 @@ class AdbRunner {
   }
 }
 
-module.exports = { AdbRunner, checkDevice, parseDevices, shellArgs };
+module.exports = { AdbRunner, checkDevice, rootDevice, parseDevices, shellArgs };

diff --git a/README.md b/README.md
@@ -41,7 +41,7 @@ npm run dist
 - 检测设备连接和 Root 状态，一次操作一台设备。
 - 在“指令”工作区单次执行读取与操作指令，支持停止和结果对比。
 - 在“日志”工作区分别抓取内核日志（`dmesg`）与 Logcat 日志（`logcat -d`）；两种日志的保存路径可分别修改，抓取完成后自动保存。同一路径再次抓取会覆盖旧文件。
-- 添加、编辑、删除及排序命令，安装 APK（自动授予运行时权限；遇到目标 SDK 版本过低时使用兼容参数重试一次），保存或复制输出，转换 Init Cmd。
+- 点击整张指令卡片执行一次命令，添加、编辑、删除及排序命令；设备接入后自动尝试一次 `adb root`。安装 APK 时自动授予运行时权限，遇到目标 SDK 版本过低时使用兼容参数重试一次；支持保存或复制输出、转换 Init Cmd。
 - MIPI CLK 计算工具：输入显示时序、目标 FPS、DPI 时钟源与 Lane 数，计算所需 DPI 时钟、分频值、实际 FPS 和 MIPI CLK。
 - 深色导航可折叠，左侧图标栏可快速切换工作区和打开工具；导航顶部可搜索指令。
 - `Ctrl+1` 至 `Ctrl+0` 运行前十条命令，`Ctrl+R` 刷新设备，`Ctrl+S` 保存输出，`Esc` 停止。
